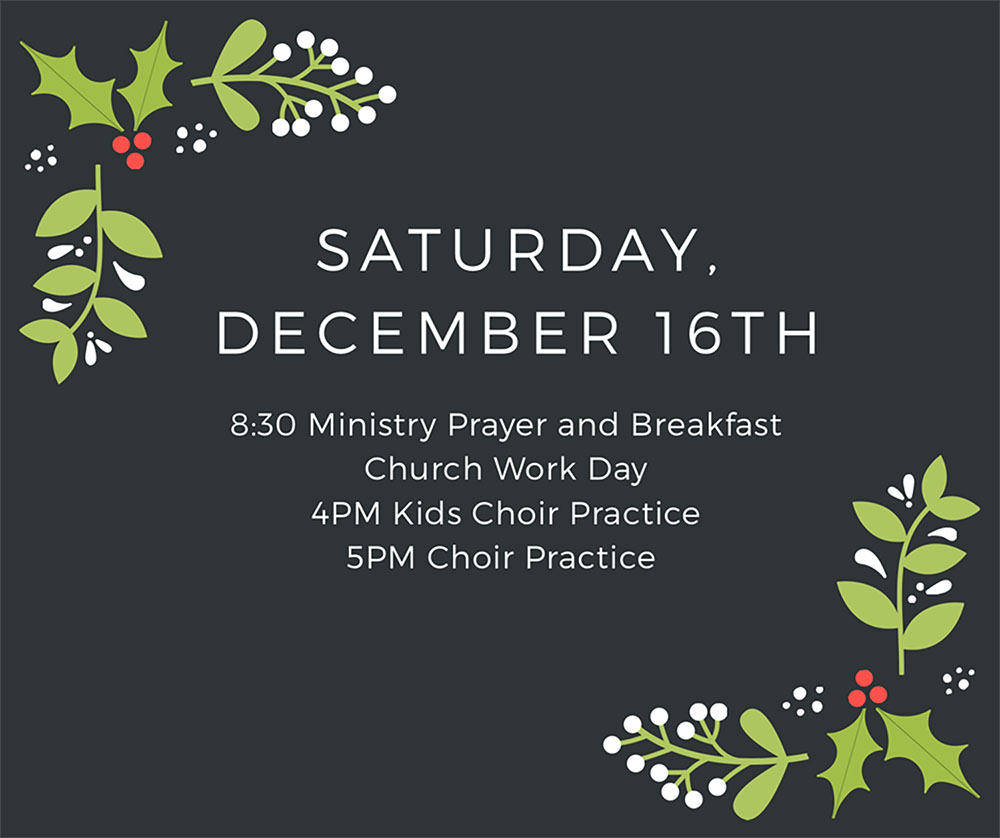
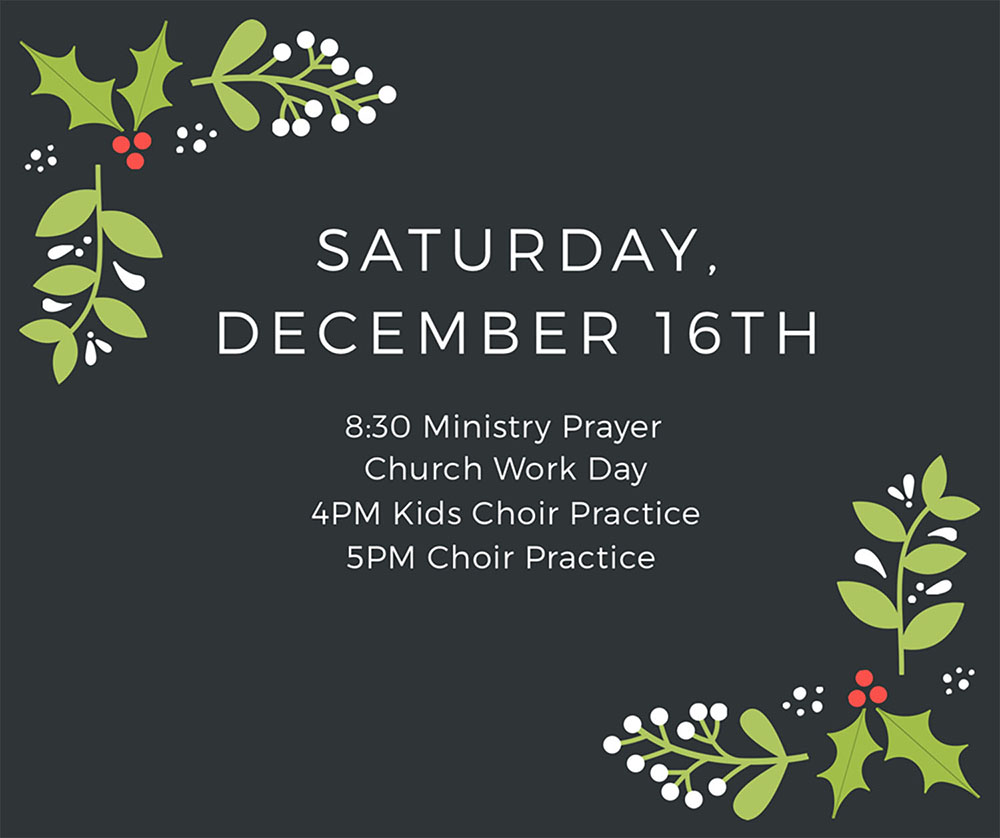
Updated events, modified event template to use long description as img alt.

Changed region(s): [[0.217, 0.4964, 0.775, 0.5274]]

diff --git a/FPC.WebApi/views/events/dec16.html b/FPC.WebApi/views/events/dec16.html
@@ -1,11 +1,11 @@
 <div ng-controller="Events">
   <h3>Schedule for the Day: </h3>
   <ul class="noBullets">
-    <li>8:30 AM - Ministry Prayer and Breakfast - Everyone is invited</li>
+    <li>8:30 AM - Ministry Prayer - Everyone is invited</li>
     <li>Church Work Day - Please come down and help us get ready for Christmas guests!</li>
     <li>4:00 PM - Kids Choir Practice</li>
     <li>5:00 PM - Adult Choir Practice</li>
   </ul>
-  <p>Starting at 8:30 AM, there is a prayer session and breakfast for our ministry participants. Since everyone should be participating in ministry, everyone is invited to come! Bring a dish if you'd like! This day is also scheduled for a work day, so come on down and help us get ready for Christmas visitors! At 4:00 PM, the kids choir will be practicing, and at 5:00 PM, the adult choir will take over the singing!</p>
+  <p>Starting at 8:30 AM, there is a prayer session for our ministry participants. Since everyone should be participating in ministry, everyone is invited to come! After that, if you'd like to leave for breakfast and come back, this day is also scheduled for a work day, so come on down and help us get ready for Christmas visitors! At 4:00 PM, the kids choir will be practicing, and at 5:00 PM, the adult choir will take over the singing!</p>
 
 </div>

diff --git a/FPC.WebApi/views/events/eventsEventTemplate.html b/FPC.WebApi/views/events/eventsEventTemplate.html
@@ -8,6 +8,6 @@
        ../../assets/images/event-images/{{event.ImageName}}-1000w.jpg 1000w,
 			 ../../assets/images/event-images/{{event.ImageName}}-1500w.jpg 1800w"
        sizes="100vw"
-       alt="{{event.Title}}" />
+       alt="{{event.LongDesc}}" />
   <div class="overflow-auto" ng-include="" src="event.TemplateUrl"></div>
 </div>
